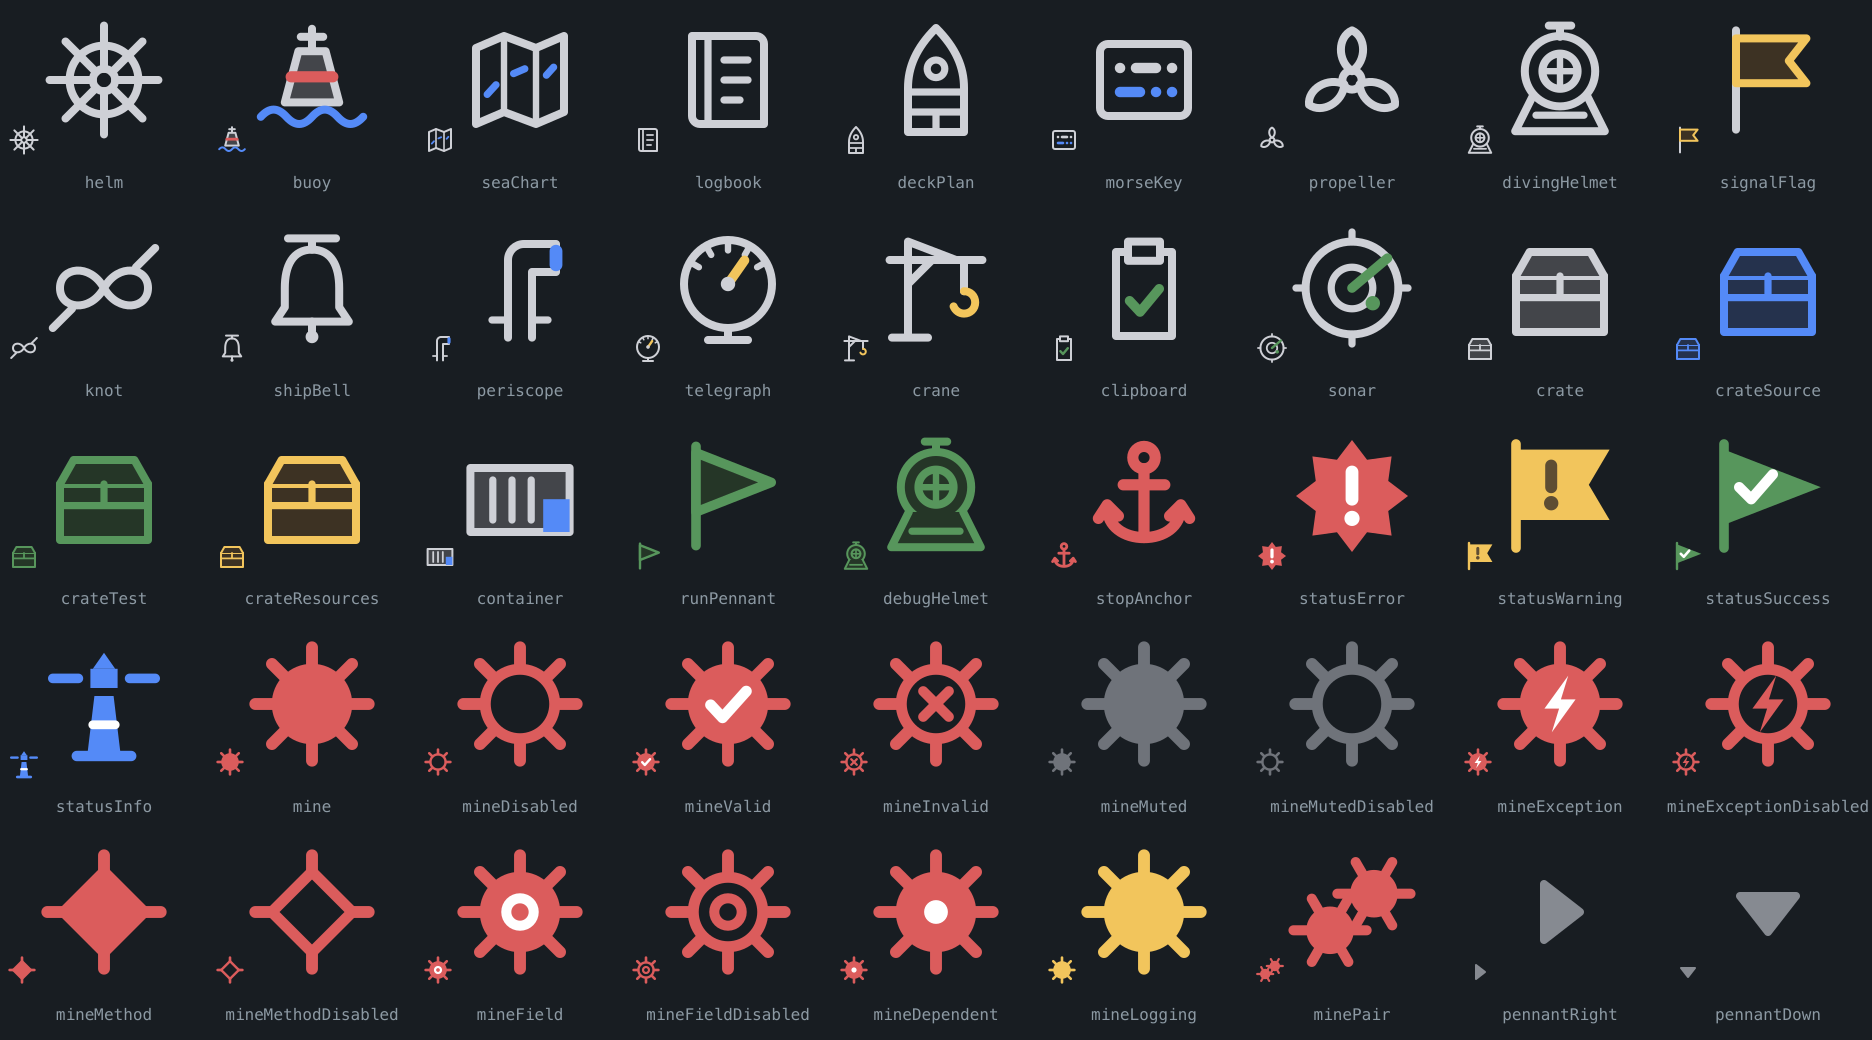
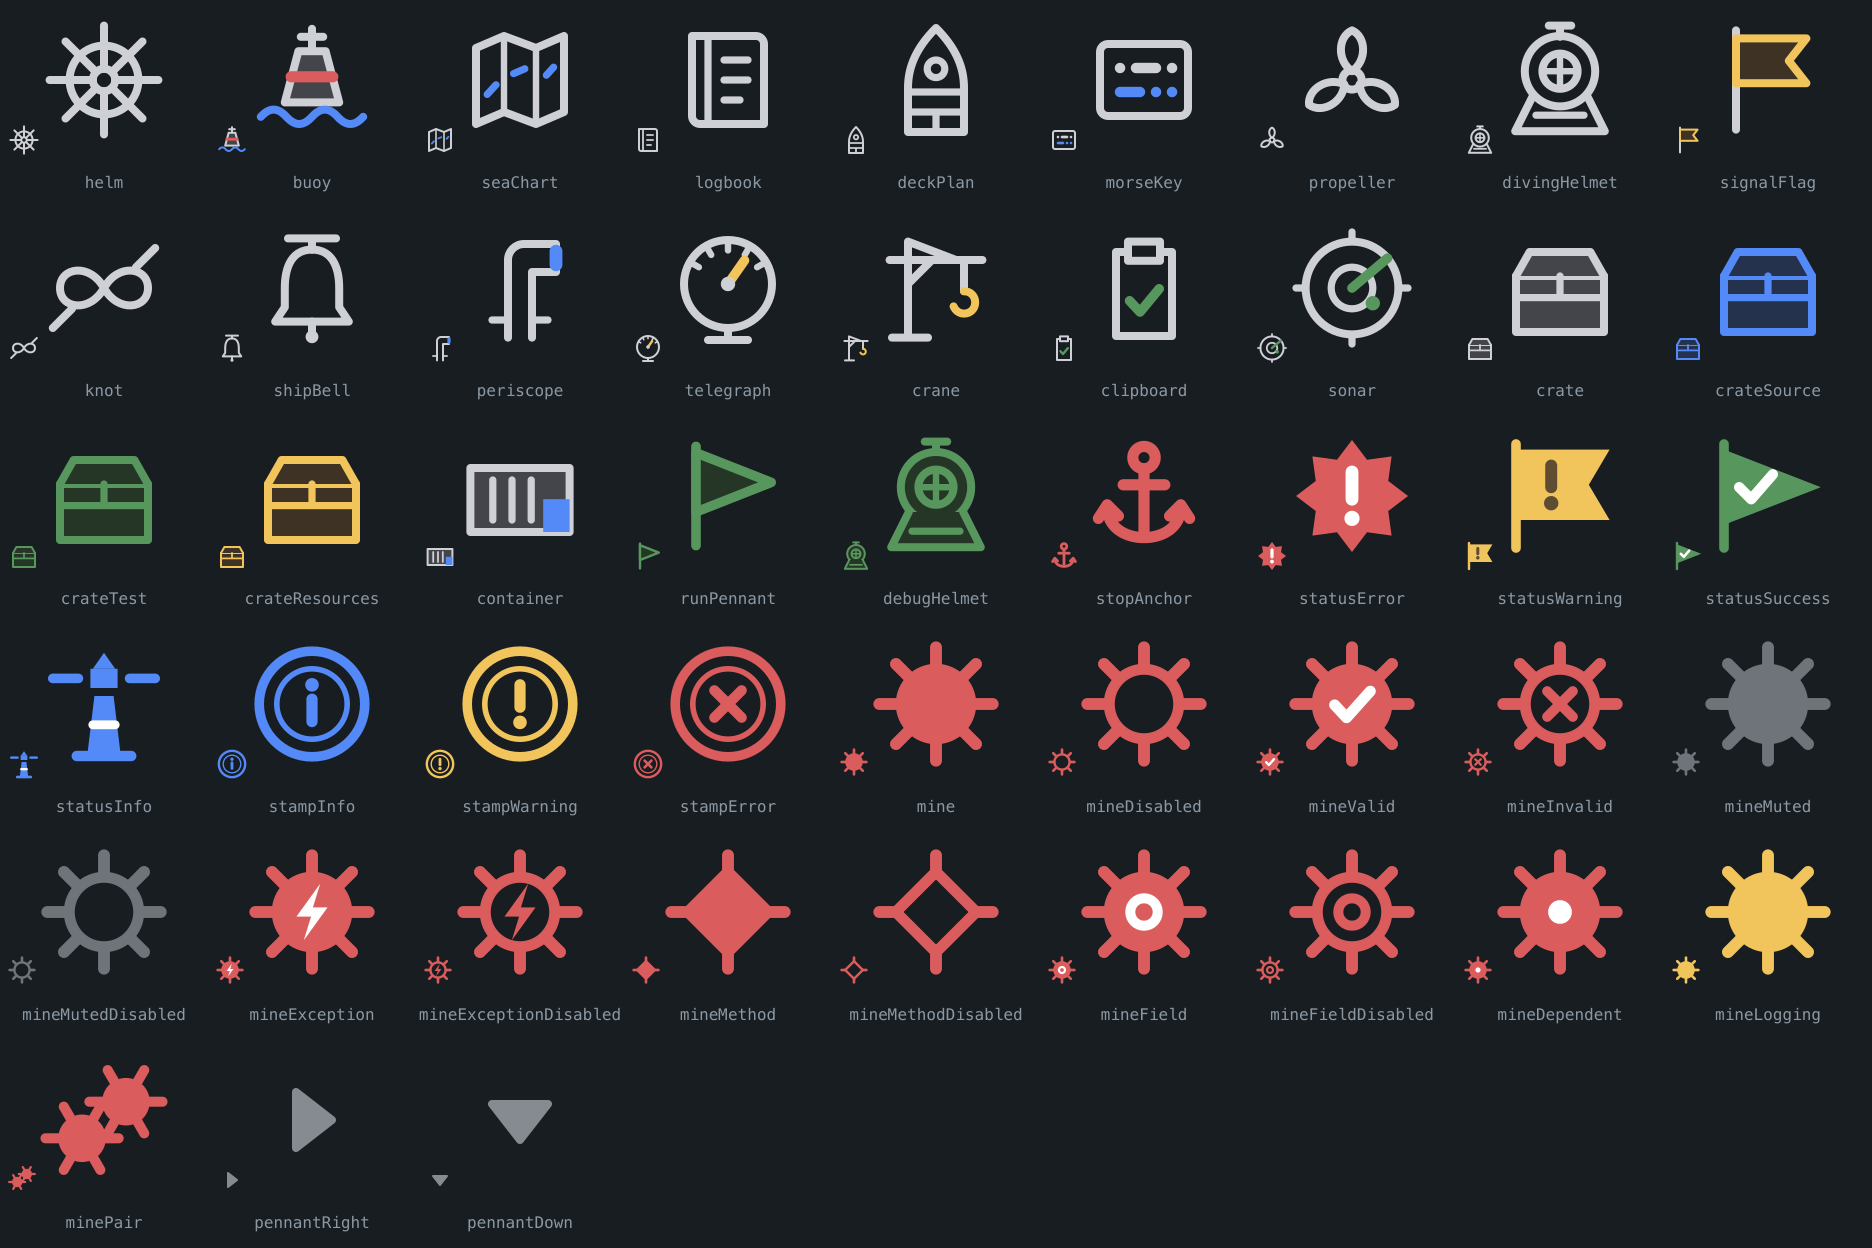
Style notifications as radio telegram slips
Balloons and the notifications tool window get a paper tone, a brass
edge and squarer corners. Adds stamp icons for the notification types.

diff --git a/scripts/draw-icons.py b/scripts/draw-icons.py
@@ -214,6 +214,27 @@ def status_info():
             + stroke("M6.6 10.6H9.4", colour="#FFFFFF", width=1.1))
 
 
+# ------------------------------------------------------------------- notifications (telegram stamps)
+
+def stamp(colour, mark):
+    """A round rubber stamp, as on a radio telegram form, with a mark for the kind of message."""
+    return (circle(8, 8, 6.6, colour=colour, width=1.2)
+            + circle(8, 8, 4.4, colour=colour, width=0.7)
+            + mark)
+
+
+def stamp_info():
+    return stamp(BLUE, stroke("M8 7.4V10.2", colour=BLUE, width=1.4) + dot(8, 5.6, 0.85, BLUE))
+
+
+def stamp_warning():
+    return stamp(YELLOW, stroke("M8 5.6V8.4", colour=YELLOW, width=1.4) + dot(8, 10.3, 0.85, YELLOW))
+
+
+def stamp_error():
+    return stamp(RED, stroke("M6.3 6.3L9.7 9.7M9.7 6.3L6.3 9.7", colour=RED, width=1.3))
+
+
 # ------------------------------------------------------------------------- breakpoints (14 px)
 
 def mine(colour=RED, solid=True, body="round", horns=8):
@@ -293,6 +314,10 @@ ICONS = {
     "statusSuccess": (16, status_success(), ["status/success", "expui/status/success"], None),
     "statusInfo": (16, status_info(), ["general/balloonInformation", "general/information",
                                        "expui/status/info"], None),
+
+    "stampInfo": (16, stamp_info(), ["general/notificationInfo", "expui/status/notificationInfo"], None),
+    "stampWarning": (16, stamp_warning(), ["general/notificationWarning", "expui/status/notificationWarning"], None),
+    "stampError": (16, stamp_error(), ["general/notificationError", "expui/status/notificationError"], None),
 
     "mine": (14, mine(), ["debugger/db_set_breakpoint", "expui/breakpoints/breakpoint"], None),
     "mineDisabled": (14, mine(solid=False), ["debugger/db_disabled_breakpoint",

diff --git a/README.md b/README.md
@@ -14,11 +14,12 @@ Fan-made. Not affiliated with or endorsed by Siege Camp. All artwork in this rep
 - **IDE chrome**: every component, recoloured through the colour ramps of the parent theme *Islands Dark*.
 - **Editor colour scheme**: syntax, inspections, diff, VCS, debugger, console and terminal colours.
 - **Background artwork**: a sea chart with depth contours and soundings runs faintly behind the code and the tool windows, with a sonar display and a warship or submarine in the corner. The empty frame shows the sonar on its own, stronger.
-- **Icons**: 45 nautical icons. Breakpoints are sea mines, folders are crates, tool windows get a sea chart, logbook, ship's bell, periscope and more. Platform icons take the palette colours.
+- **Icons**: 48 nautical icons. Breakpoints are sea mines, folders are crates, tool windows get a sea chart, logbook, ship's bell, periscope and more. Platform icons take the palette colours.
 - **Progress bar**: a ship (Blacksteele) or a submarine running awash (Nakki) makes its way along the water. For indeterminate progress it crosses the bar again and again.
 - **Air bubbles**: a few bubbles rise from the caret when you pause typing.
 - **Torpedo**: deleting a line (*Delete Line*) sends a torpedo along it.
 - **Sonar ping**: when a build or a run finishes, rings spread across the sonar display, green on success and red on failure.
+- **Telegram notifications**: balloons look like radio telegram slips, paper-toned with a brass edge.
 - **Depth gauge**: a status bar widget that shows how deep the caret is in the file, one metre per line. Hide it from the status bar's context menu.
 
 The effects play for a second or two and leave nothing running in between. Each can be switched off under **Settings | Appearance & Behavior | Warden Navy**; all are off in Power Save Mode.
